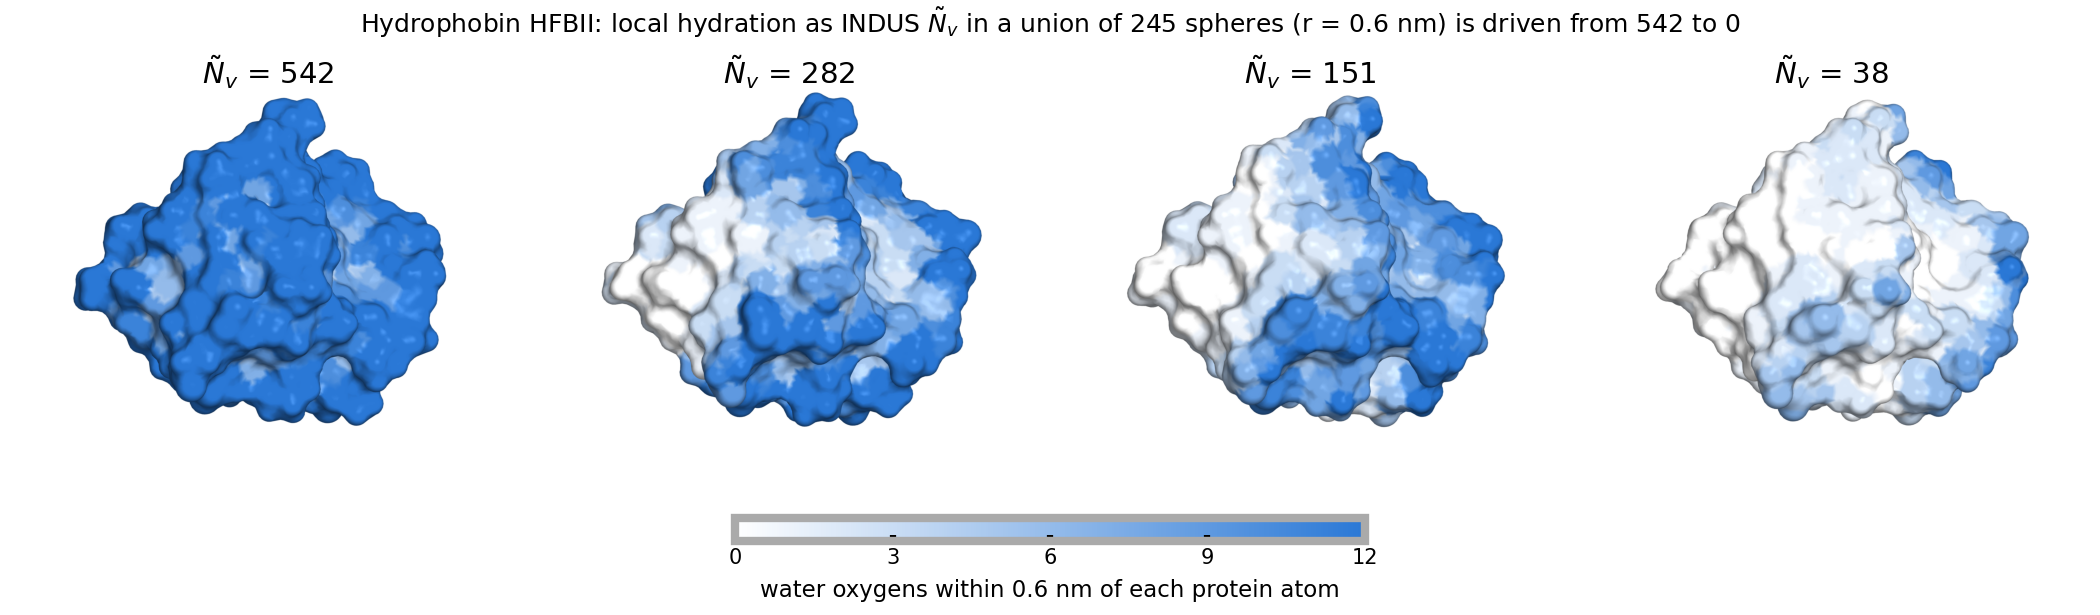
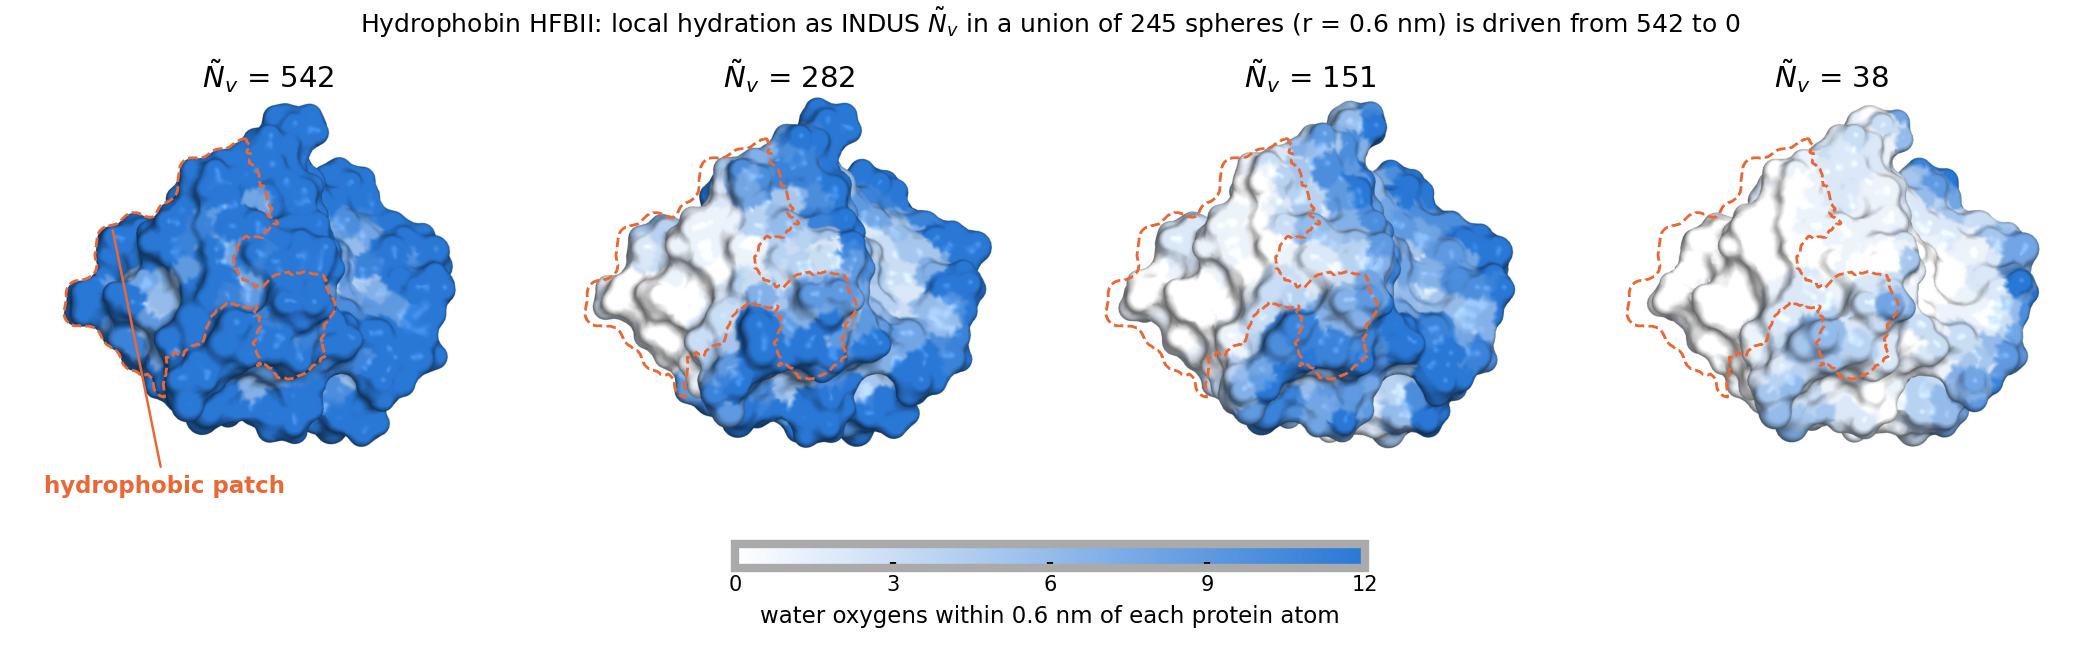
README figure: outline the hydrophobic patch of HFBII on every panel; add the mask render and compose scripts

diff --git a/doc/images/compose_hfbii_hydration_figure.py b/doc/images/compose_hfbii_hydration_figure.py
@@ -1,0 +1,42 @@
+#!/usr/bin/env python3
+"""Compose the four-state HFBII hydration figure with the hydrophobic patch outlined.
+
+Inputs (same viewpoint, rendered by render_count4.pml and render_patchmask.pml):
+  start_count.png mid1000_count.png mid1500_count.png final_count.png   surface colored by water count
+  patchmask_view1.png   protein grey, patch residues red -> outline
+usage: compose_hydration_figure.py <out.png>
+"""
+import sys
+import numpy as np
+import matplotlib; matplotlib.use("Agg"); matplotlib.rc_file_defaults()
+import matplotlib.pyplot as plt, matplotlib.image as mpimg
+from matplotlib.colors import LinearSegmentedColormap, Normalize
+from matplotlib.cm import ScalarMappable
+
+out = sys.argv[1] if len(sys.argv) > 1 else "hfbii_union_of_spheres_hydration.png"
+plt.rcParams.update({"font.family": "sans-serif", "text.usetex": False, "font.size": 11, "xtick.labelsize": 10, "axes.titlesize": 14})
+panels = [("start_count.png", 542), ("mid1000_count.png", 282), ("mid1500_count.png", 151), ("final_count.png", 38)]
+crop = lambda im: im[int(0.08 * im.shape[0]):int(0.95 * im.shape[0]), int(0.06 * im.shape[1]):int(0.94 * im.shape[1])]
+
+mask_im = crop(mpimg.imread("patchmask_view1.png")[:, :, :3])
+patch = (mask_im[:, :, 0] > 0.6) & (mask_im[:, :, 1] < 0.4) & (mask_im[:, :, 2] < 0.4)
+ys, xs = np.where(patch); cx, cy = xs.mean(), ys.mean()
+orange, ink = "#eb6834", "#0b0b0b"
+
+fig, axes = plt.subplots(1, 4, figsize=(14, 4.3), facecolor="white")
+for i, (ax, (f, nt)) in enumerate(zip(axes, panels)):
+    ax.imshow(crop(mpimg.imread(f))); ax.set_axis_off(); ax.set_title(rf"$\tilde N_v$ = {nt}", pad=4)
+    ax.contour(patch.astype(float), levels=[0.5], colors=[orange], linewidths=1.3, linestyles="--")
+    if i == 0:
+        ax.annotate("hydrophobic patch", xy=(cx - 0.18 * patch.shape[1], cy - 0.12 * patch.shape[0]),
+                    xytext=(0.03, 0.04), textcoords="axes fraction", color=orange, fontsize=11, fontweight="semibold",
+                    arrowprops=dict(arrowstyle="-", color=orange, lw=1.2))
+cmap = LinearSegmentedColormap.from_list("w2b", ["#ffffff", "#2a78d6"])
+sm = ScalarMappable(norm=Normalize(0, 12), cmap=cmap); sm.set_array([])
+cax = fig.add_axes([0.35, 0.12, 0.30, 0.037])
+cb = fig.colorbar(sm, cax=cax, orientation="horizontal"); cb.outline.set_edgecolor("#aaaaaa")
+cb.set_ticks([0, 3, 6, 9, 12]); cb.ax.tick_params(labelsize=10, length=3)
+cb.set_label("water oxygens within 0.6 nm of each protein atom", fontsize=11, labelpad=5)
+fig.suptitle("Hydrophobin HFBII: local hydration as INDUS $\\tilde N_v$ in a union of 245 spheres (r = 0.6 nm) is driven from 542 to 0", fontsize=12, y=0.99)
+plt.subplots_adjust(left=0.005, right=0.995, top=0.85, bottom=0.21, wspace=0.01)
+fig.savefig(out, dpi=150, facecolor="white"); print("wrote", out)
